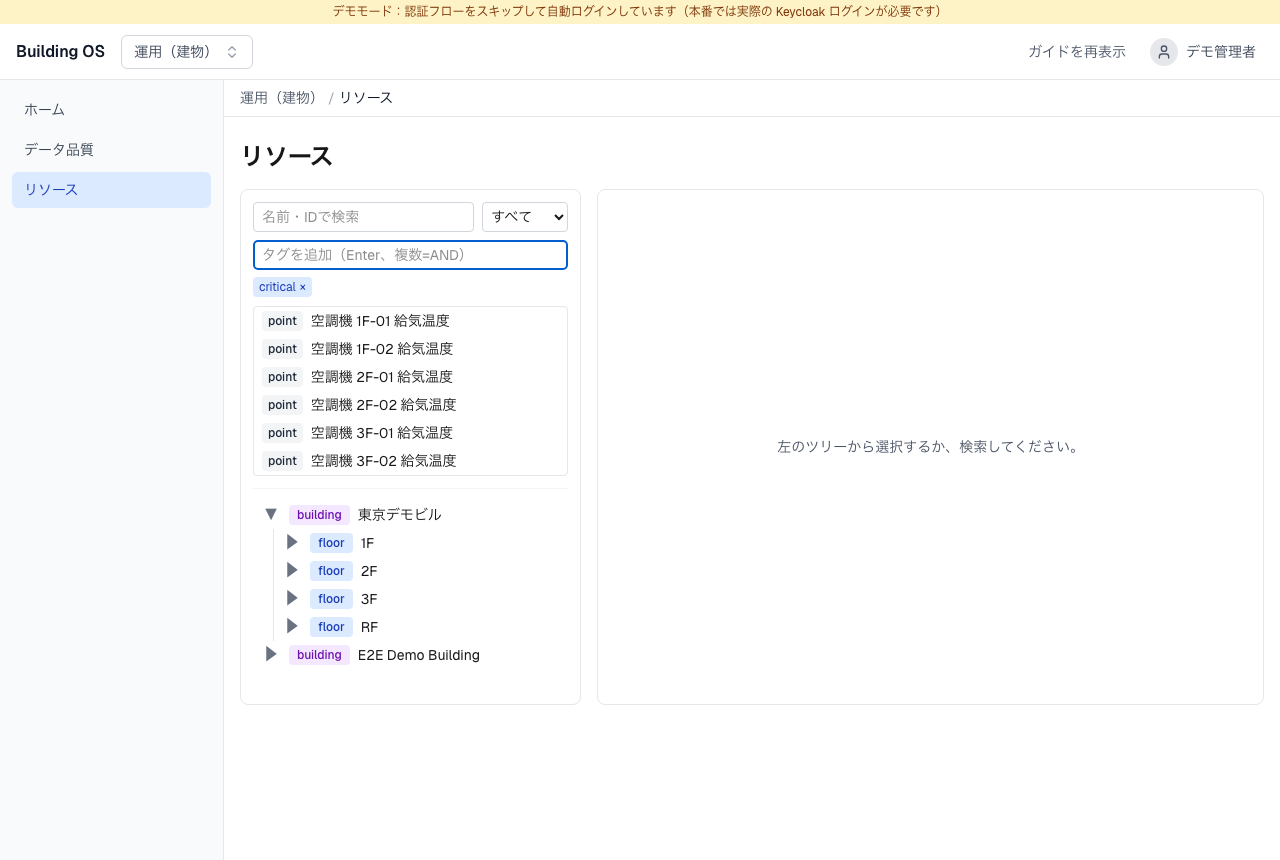
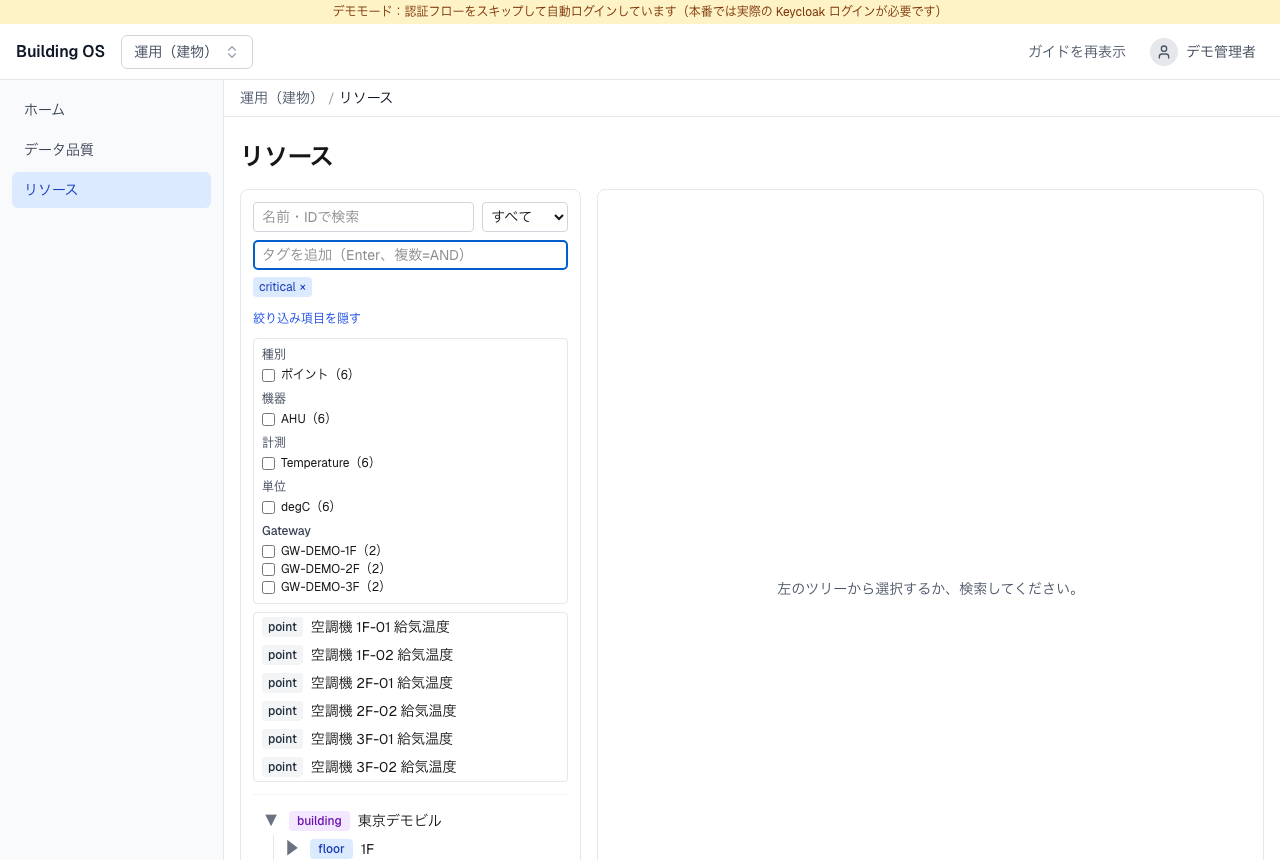
docs: ヘルスイベントの画面写真・README・デモ台本・GitHub Pages を更新する (#455) (#569)
* wip: ヘルスイベントのデモ撮影を追加し、台本のスクリーンショットを更新する (#455)

* docs: ヘルスイベントの画面写真を撮り直し、README・デモ台本・GitHub Pages を更新する (#455)

make demo の実スタック（評価器が stale 18 / missing 3 / alarm 2 / gateway_offline 1 を発生）から
撮影。台本に 8〜10 の手順を追加し、product.html / index.html / index-en.html に機能を追記。

Claude-Session: https://claude.ai/code/session_01KWZnoueDa69wVdFDEUN5Jq

* fix(e2e): 撮影テストの timeout をイベント待ちより長くする (#455)

Claude-Session: https://claude.ai/code/session_01KWZnoueDa69wVdFDEUN5Jq

---------

diff --git a/web-client/e2e/capture-demo-walkthrough.spec.ts b/web-client/e2e/capture-demo-walkthrough.spec.ts
@@ -13,7 +13,7 @@ test.skip(
   "captures from a live make demo stack; set E2E_CAPTURE_WALKTHROUGH=1",
 );
 test.use({ viewport: { width: 1280, height: 860 } });
-test.setTimeout(120_000);
+test.setTimeout(420_000); // a fresh stack needs ~3 min before the evaluator raises its first events
 
 const SHOTS = "../docs/screenshots";
 
@@ -30,6 +30,17 @@ async function shot(page: Page, name: string, fullPage = false): Promise<void> {
     path: `${SHOTS}/demo-walkthrough-${name}.png`,
     fullPage,
   });
+}
+
+// The app shell scrolls inside its own container, so Playwright's `fullPage` cannot see below the
+// viewport. For the screens that are taller than one viewport, grow the viewport instead, wait for the
+// late-arriving panels (the 24 h coverage bar), and put it back.
+async function tallShot(page: Page, name: string): Promise<void> {
+  const original = page.viewportSize() ?? { width: 1280, height: 860 };
+  await page.setViewportSize({ width: original.width, height: 1500 });
+  await page.waitForTimeout(2_000);
+  await shot(page, name);
+  await page.setViewportSize(original);
 }
 
 test("capture: demo walkthrough", async ({ page }) => {
@@ -70,7 +81,7 @@ test("capture: demo walkthrough", async ({ page }) => {
     "ゲートウェイ切断",
     { timeout: 30_000 },
   );
-  await shot(page, "3-point-missing", true);
+  await tallShot(page, "3-point-missing");
 
   // 4. Point 詳細 — stale の Point（interval × multiplier の判定根拠）
   await page.goto("/health?freshness=stale");
@@ -78,7 +89,7 @@ test("capture: demo walkthrough", async ({ page }) => {
   await shot(page, "4-health-stale");
   await page.getByTestId("health-table").locator("tbody a").first().click();
   await page.getByTestId("point-health-panel").waitFor({ timeout: 30_000 });
-  await shot(page, "5-point-stale", true);
+  await tallShot(page, "5-point-stale");
 
   // 5. /resources — タグ検索（critical）
   await page.goto("/resources");
@@ -88,8 +99,46 @@ test("capture: demo walkthrough", async ({ page }) => {
   await page.waitForTimeout(1_500);
   await shot(page, "6-resources-tag");
 
+  // 6b. /resources — Point の facet（機器・計測・単位・Gateway と、鮮度・アラーム）(#454)
+  await page.goto("/resources");
+  await page.getByLabel("種別で絞り込み").selectOption("point");
+  await expect(page.getByTestId("facet-panel")).toBeVisible({ timeout: 30_000 });
+  await expect(page.getByTestId("facet-health-freshness")).toBeVisible({
+    timeout: 60_000,
+  });
+  await page.getByTestId("facet-freshness-stale").check();
+  await expect(
+    page.getByTestId("resource-search-box").locator("ul li button").first(),
+  ).toBeVisible({ timeout: 60_000 });
+  await page.waitForTimeout(1_500);
+  await shot(page, "10-resources-facets");
+
+  // 6c. /health?view=events — 永続ヘルスイベント（#455）。評価器が連続スキャンで条件を確認してから
+  // 発生させるので、最初の行が出るまで待つ。
+  await page.goto("/health?view=events");
+  await expect(page.getByTestId("events-table")).toBeVisible({ timeout: 240_000 });
+  // gateway 切断は配下の欠測を 1 件に集約したイベントになる。1 件確認応答して「確認済み」の行も写す。
+  const gatewayRow = page
+    .locator("tr", { has: page.getByTestId("event-kind").filter({ hasText: "Gateway 切断" }) })
+    .first();
+  await expect(gatewayRow).toBeVisible({ timeout: 60_000 });
+  // Re-runs find it already acknowledged (the first acknowledger stays), which is the state we want to show.
+  const ackButton = gatewayRow.getByTestId("event-ack-button");
+  if (await ackButton.count()) await ackButton.click();
+  await expect(gatewayRow.getByTestId("event-ack")).not.toHaveText("確認する");
+  await page.waitForTimeout(500);
+  await tallShot(page, "8-health-events");
+
+  // 6d. 値異常のイベントがある Point の詳細 — 「この Point の直近イベント」
+  await page.goto("/health?view=events&kind=alarm");
+  await page.getByTestId("events-table").waitFor({ timeout: 60_000 });
+  await page.getByTestId("events-table").locator("tbody a").first().click();
+  await page.getByTestId("point-health-events").waitFor({ timeout: 30_000 });
+  await expect(page.getByTestId("point-health-events")).toContainText("値異常");
+  await tallShot(page, "9-point-events");
+
   // 6. /platform/status — 流量
   await page.goto("/platform/status");
   await page.waitForLoadState("networkidle");
-  await shot(page, "7-platform-status", true);
+  await tallShot(page, "7-platform-status");
 });

diff --git a/docs/product.html b/docs/product.html
@@ -147,6 +147,22 @@
 
       <div class="feature-row">
         <div class="feature-text">
+          <h3>異常を見つけて、追跡して、確認する</h3>
+          <p>データが届いていない(鮮度切れ・欠測)、値が閾値を超えた、ゲートウェイが切れた —
+          こうした異常を、ポイント単位で判定して一覧します。判定結果は<strong>イベント</strong>として残り、
+          いつ始まり、いつ終わり、誰が確認したかをあとから追えます。</p>
+          <p>ゲートウェイが切れたときは、配下の数百ポイントが一斉に欠測になっても、ポイントごとには出さず
+          「ゲートウェイ切断」の 1 件にまとめます。確認応答は運用者・管理者が行い、最初に確認した人が
+          記録に残ります。判定の根拠(期待周期 × 倍率)はポイント詳細で読めます。</p>
+        </div>
+        <figure class="shot">
+          <img src="ui-screenshots/11-health-events.png" alt="データ品質のイベント画面。鮮度切れ・欠測・値異常・ゲートウェイ切断の未解消イベントが一覧され、確認応答のボタンと確認済みの行が表示されている。" width="1280" height="1500" loading="lazy">
+          <figcaption>データ品質(イベント) — 異常の始まりと終わり、確認した人を記録</figcaption>
+        </figure>
+      </div>
+
+      <div class="feature-row">
+        <div class="feature-text">
           <h3>プラットフォームの今を一目で</h3>
           <p>API・ワーカー・メッセージバスなど各コンポーネントの稼働状態を、ダッシュボードで
           ひと目で確認。外部の監視基盤がなくても、基本の運用は built-in の画面で回せます。</p>

diff --git a/docs/index.html b/docs/index.html
@@ -125,6 +125,12 @@
           オフラインのゲートウェイには即時にエラーを返し、すべての制御は監査証跡として記録されます。</p>
         </li>
         <li class="card">
+          <h3>異常の発見と追跡</h3>
+          <p>鮮度切れ・欠測・値異常・ゲートウェイ切断をポイント単位で判定し、いつ始まり、いつ終わり、
+          誰が確認したかを<a href="product.html">イベントとして記録</a>。ゲートウェイ断で数百ポイントが
+          一斉に欠測しても、1 件にまとめて表示します。</p>
+        </li>
+        <li class="card">
           <h3>標準への対応</h3>
           <p>SBCO を主語彙としつつ、Brick / REC / IFC / DTDL といった主要な建物オントロジー標準への
           対応表を整備。既存の標準的な資産との橋渡しができます。

diff --git a/docs/index-en.html b/docs/index-en.html
@@ -72,6 +72,9 @@
           <code>GET /api/v1/telemetries/query</code> endpoint picks the right tier automatically.</li>
         <li><strong>Point-level control</strong> — per-gateway routing, immediate 503 fast-fail for
           offline gateways, and a complete audit trail in PostgreSQL.</li>
+        <li><strong>Finding, tracing and acknowledging problems</strong> — freshness, missing data, out-of-range
+          values and gateway outages are judged per point and kept as events: when each started, when it ended,
+          and who acknowledged it. A gateway outage that silences hundreds of points shows up as one event, not hundreds.</li>
         <li><strong>Enterprise auth &amp; observability</strong> — Keycloak (OIDC / JWT) for users,
           mTLS machine auth for gateways, and an opt-in OpenTelemetry → Prometheus / Grafana /
           Loki / Tempo stack.</li>

diff --git a/docs/guides/demo-walkthrough.md b/docs/guides/demo-walkthrough.md
@@ -34,7 +34,7 @@ make demo
 > **replace** でアップロードしてください。twin に無い Point を送っている間、feeder のログ
 > （`docker logs building-os.demo-feeder`）に `HINT` が出ます。
 
-## 台本（7 ステップ）
+## 台本（10 ステップ）
 
 ### 1. ホームで全体を見る（`/home`）
 
@@ -89,6 +89,38 @@ twin の階層で表すのでタグには入れません。デモには `critica
 確認します。KPI を表示するには、上の「準備」にある observability プロファイルが必要です。
 
 ![プラットフォーム — システム稼働状態](../screenshots/demo-walkthrough-7-platform-status.png)
+
+### 8. 異常の履歴と確認応答（`/health?view=events`）
+
+「データ品質」の「イベント」タブには、いまの状態ではなく**異常がいつ始まり、いつ終わり、誰が確認したか**が
+残ります。起動から 3 分ほどで、評価器が連続 2 回のスキャン（1 分周期）で条件を確かめたものを発生させます。
+既定は未解消のイベントで、上の 4 種類（鮮度切れ 18・欠測 3・値異常 2・Gateway 切断 1）が並びます。
+
+- 屋上の `GW-DEMO-RF` が切れているとき、配下 2 点の欠測は Point ごとのイベントにならず、**「Gateway 切断」
+  1 件に集約**されます（gateway 断で数百 Point が一斉に欠測しても、画面が埋まらないように）。そのぶん
+  欠測は 5 件ではなく 3 件に見えます。
+- 「確認する」を押すと、確認した人と時刻が記録されます（操作できるのは operator と admin。最初に確認した人が
+  残り、2 回押しても変わりません）。
+- 「状態」（未解消 / 解消済み）と「確認」（未確認 / 確認済み）は**別の絞り込み**です。解消したあとで確認する
+  こともできるので、2 つを 1 本の状態にはしていません。
+
+![データ品質 — イベント（未解消 24 件、Gateway 切断は確認済み）](../screenshots/demo-walkthrough-8-health-events.png)
+
+### 9. Point 詳細の直近イベント
+
+値異常（上限超過）のイベントから Point を開くと、「データ健全性」の下に**「この Point の直近イベント」**が
+あります。いまの判定の根拠（上）と、過去に何が起きたか（下）が同じ画面で読めます。
+
+![Point 詳細 — 値異常のイベントと直近イベント](../screenshots/demo-walkthrough-9-point-events.png)
+
+### 10. 異常な Point を横断して探す（`/resources`）
+
+リソース画面で種別を「ポイント」にすると、機器・計測・単位・Gateway に加えて**鮮度（新鮮 / 鮮度切れ /
+欠測）とアラーム**で絞り込めます。「鮮度切れ」を選ぶと、18 点が出ます。鮮度・アラームは判定を持つ
+データ品質 API で、機器・計測などの属性はツインの検索で答えるため、両方を同時には使えません
+（片方を選ぶともう片方が外れます）。条件は URL に入るので、そのまま共有できます。
+
+![リソース — ポイントを鮮度切れで絞り込み](../screenshots/demo-walkthrough-10-resources-facets.png)
 
 ## データセットの仕組み
 

diff --git a/README.md b/README.md
@@ -43,8 +43,18 @@ MinIO 上の Parquet レイク（+ 最新値は NATS KV）にストア、REST + 
 
 ![ポイント詳細 — 最新値・鮮度バッジ・テレメトリ履歴グラフ（期間/粒度セレクタ付き）](docs/screenshots/point-detail.png)
 
-> 上記は route-mock した実 UI をブラウザ（Playwright）で撮影したものです（サンプルツイン相当のデータ、
-> `web-client/e2e/capture-readme-screenshots.spec.ts` で再生成可能）。実データでの動作は `make demo`
+異常を**見つけて、追跡して、確認する**流れ（`make demo` の実画面）— データ品質の「イベント」タブには、
+鮮度切れ・欠測・値異常・Gateway 切断が「いつ始まり、いつ終わり、誰が確認したか」まで残ります。
+Gateway が切れたときは配下の Point ごとではなく 1 件に集約され、確認応答は operator / admin が行えます:
+
+![データ品質 — イベント: 未解消の異常一覧と確認応答（Gateway 切断は確認済み）](docs/screenshots/demo-walkthrough-8-health-events.png)
+
+![Point 詳細 — 値異常のイベントと直近イベント](docs/screenshots/demo-walkthrough-9-point-events.png)
+
+> 最初の 3 枚は route-mock した実 UI をブラウザ（Playwright）で撮影したものです（サンプルツイン相当のデータ、
+> `web-client/e2e/capture-readme-screenshots.spec.ts` で再生成可能）。異常の追跡の 2 枚は `make demo`
+> （東京デモビル、`DEMO_SCENARIO=degraded`）の実スタックから撮影しています
+> （`web-client/e2e/capture-demo-walkthrough.spec.ts`、手順は [5 分デモ台本](docs/guides/demo-walkthrough.md)）。実データでの動作は `make demo`
 > 後にブラウザで確認できます。
 
 **5分で動かす（最短・1コマンド）:**
